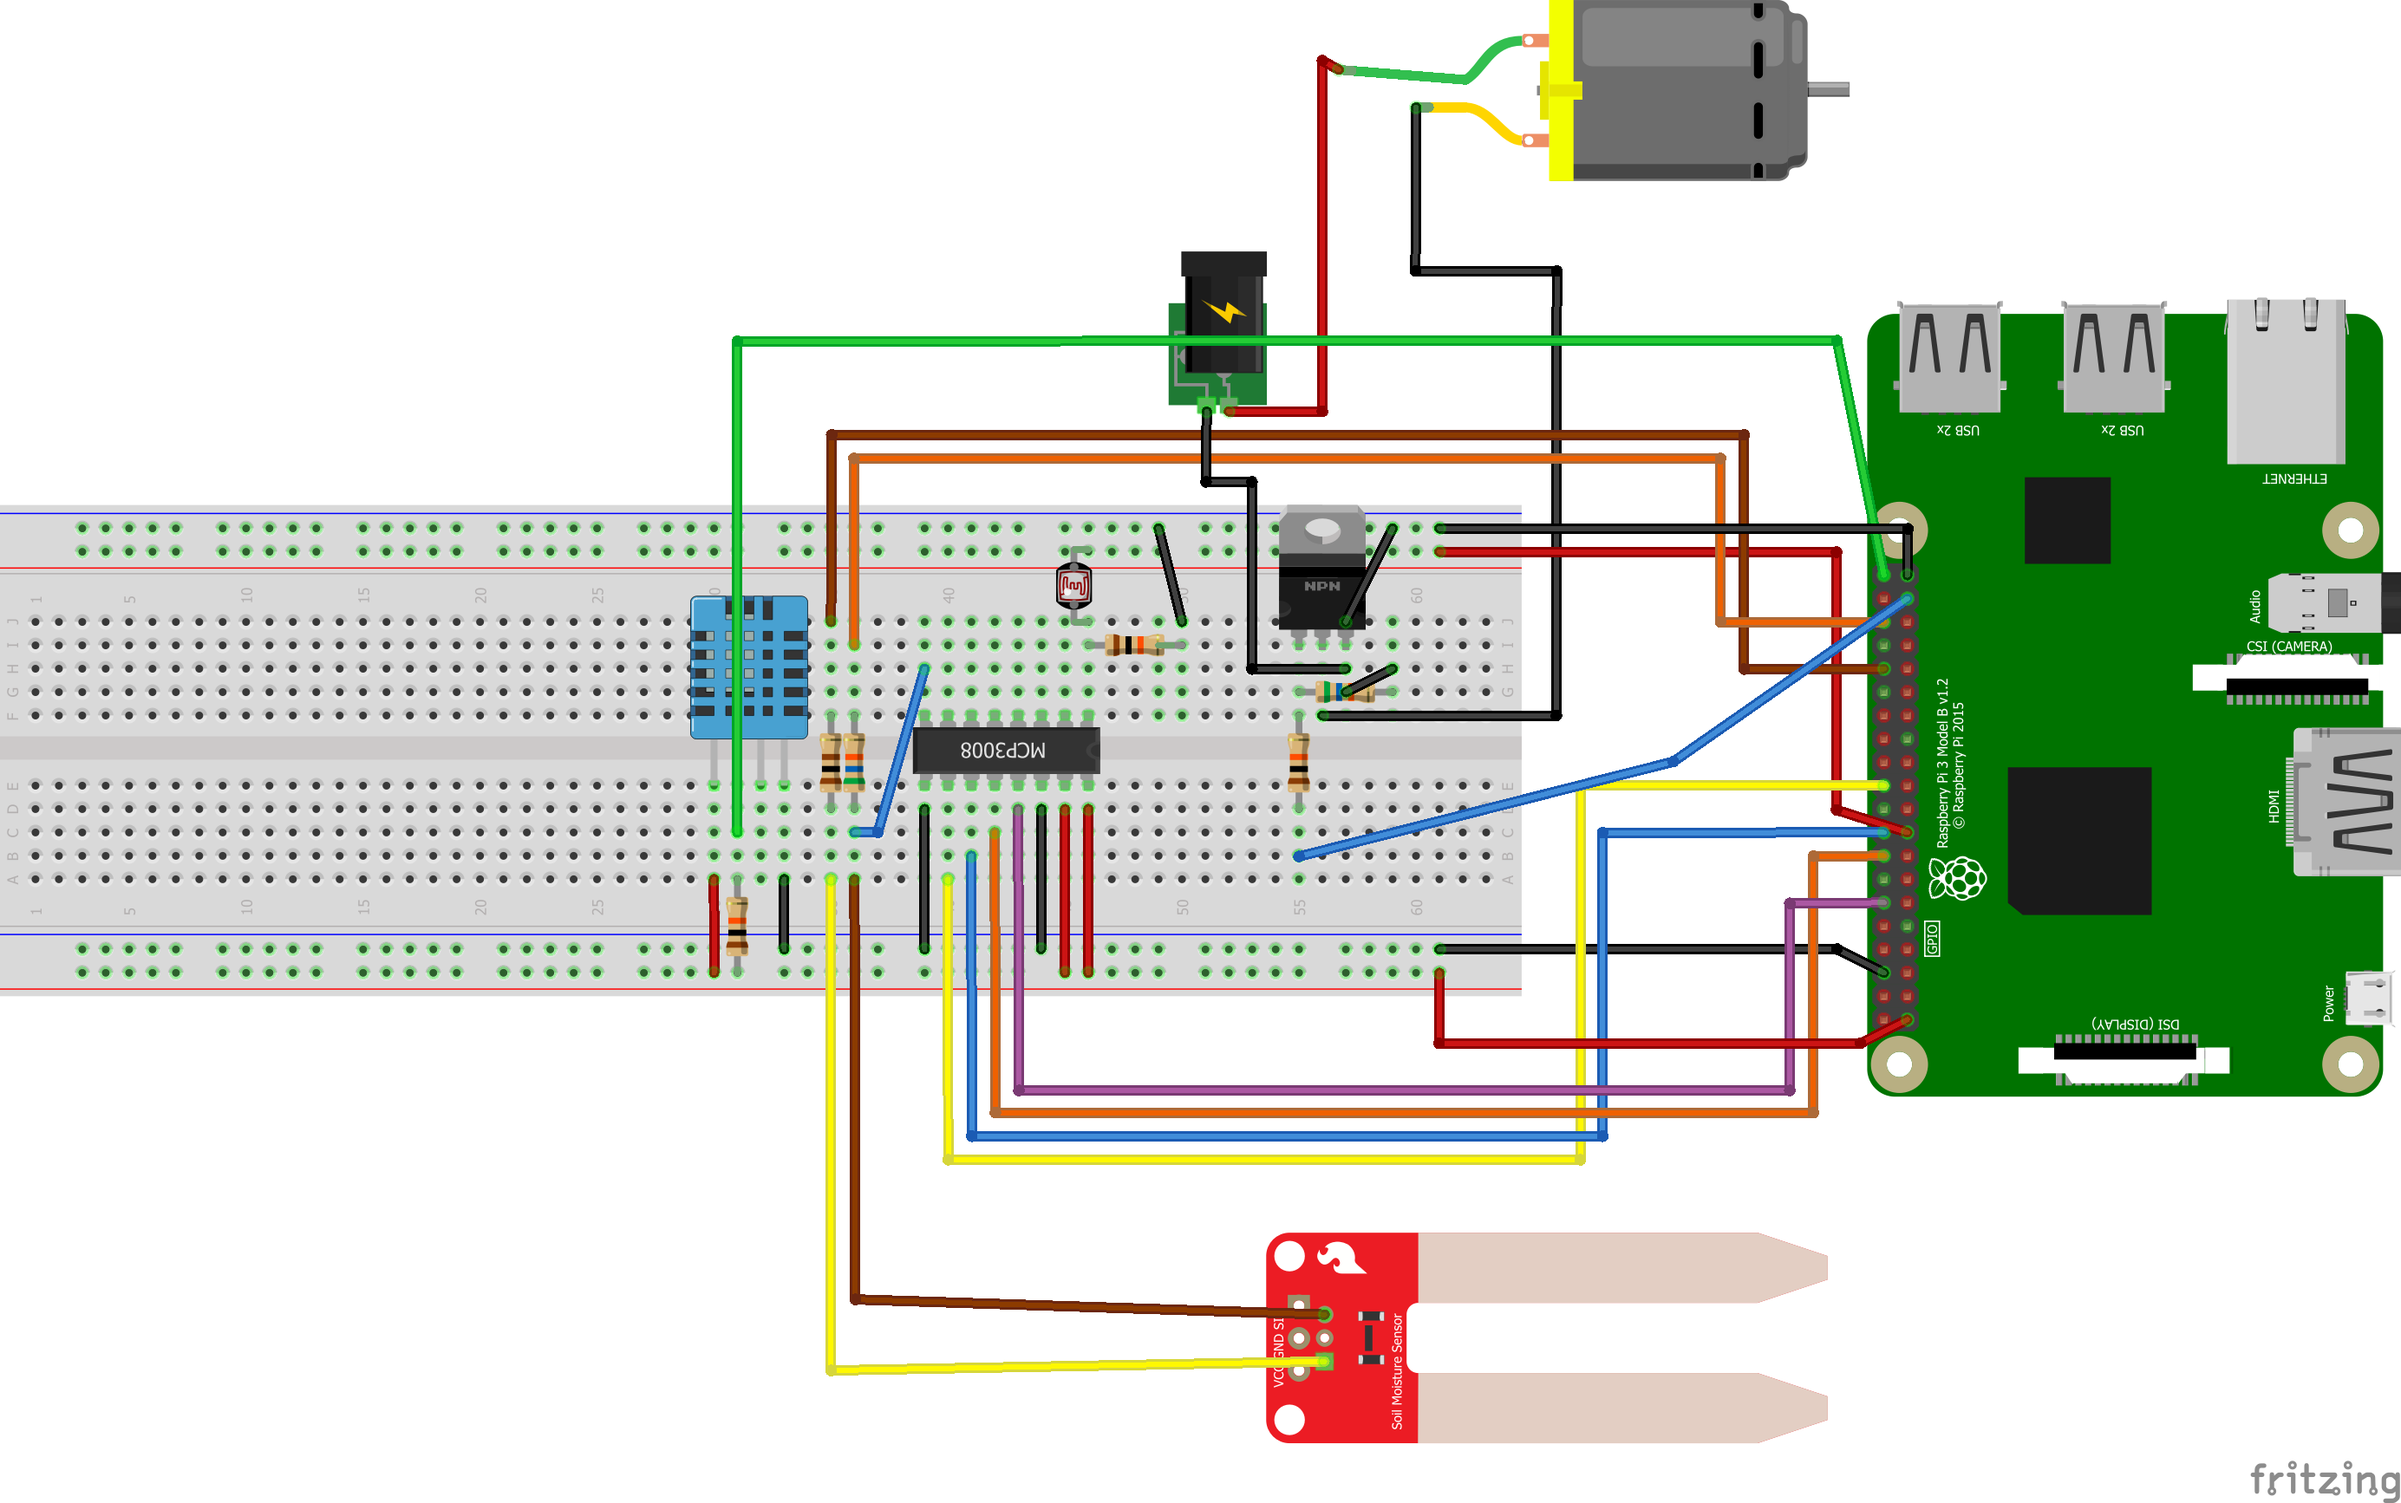
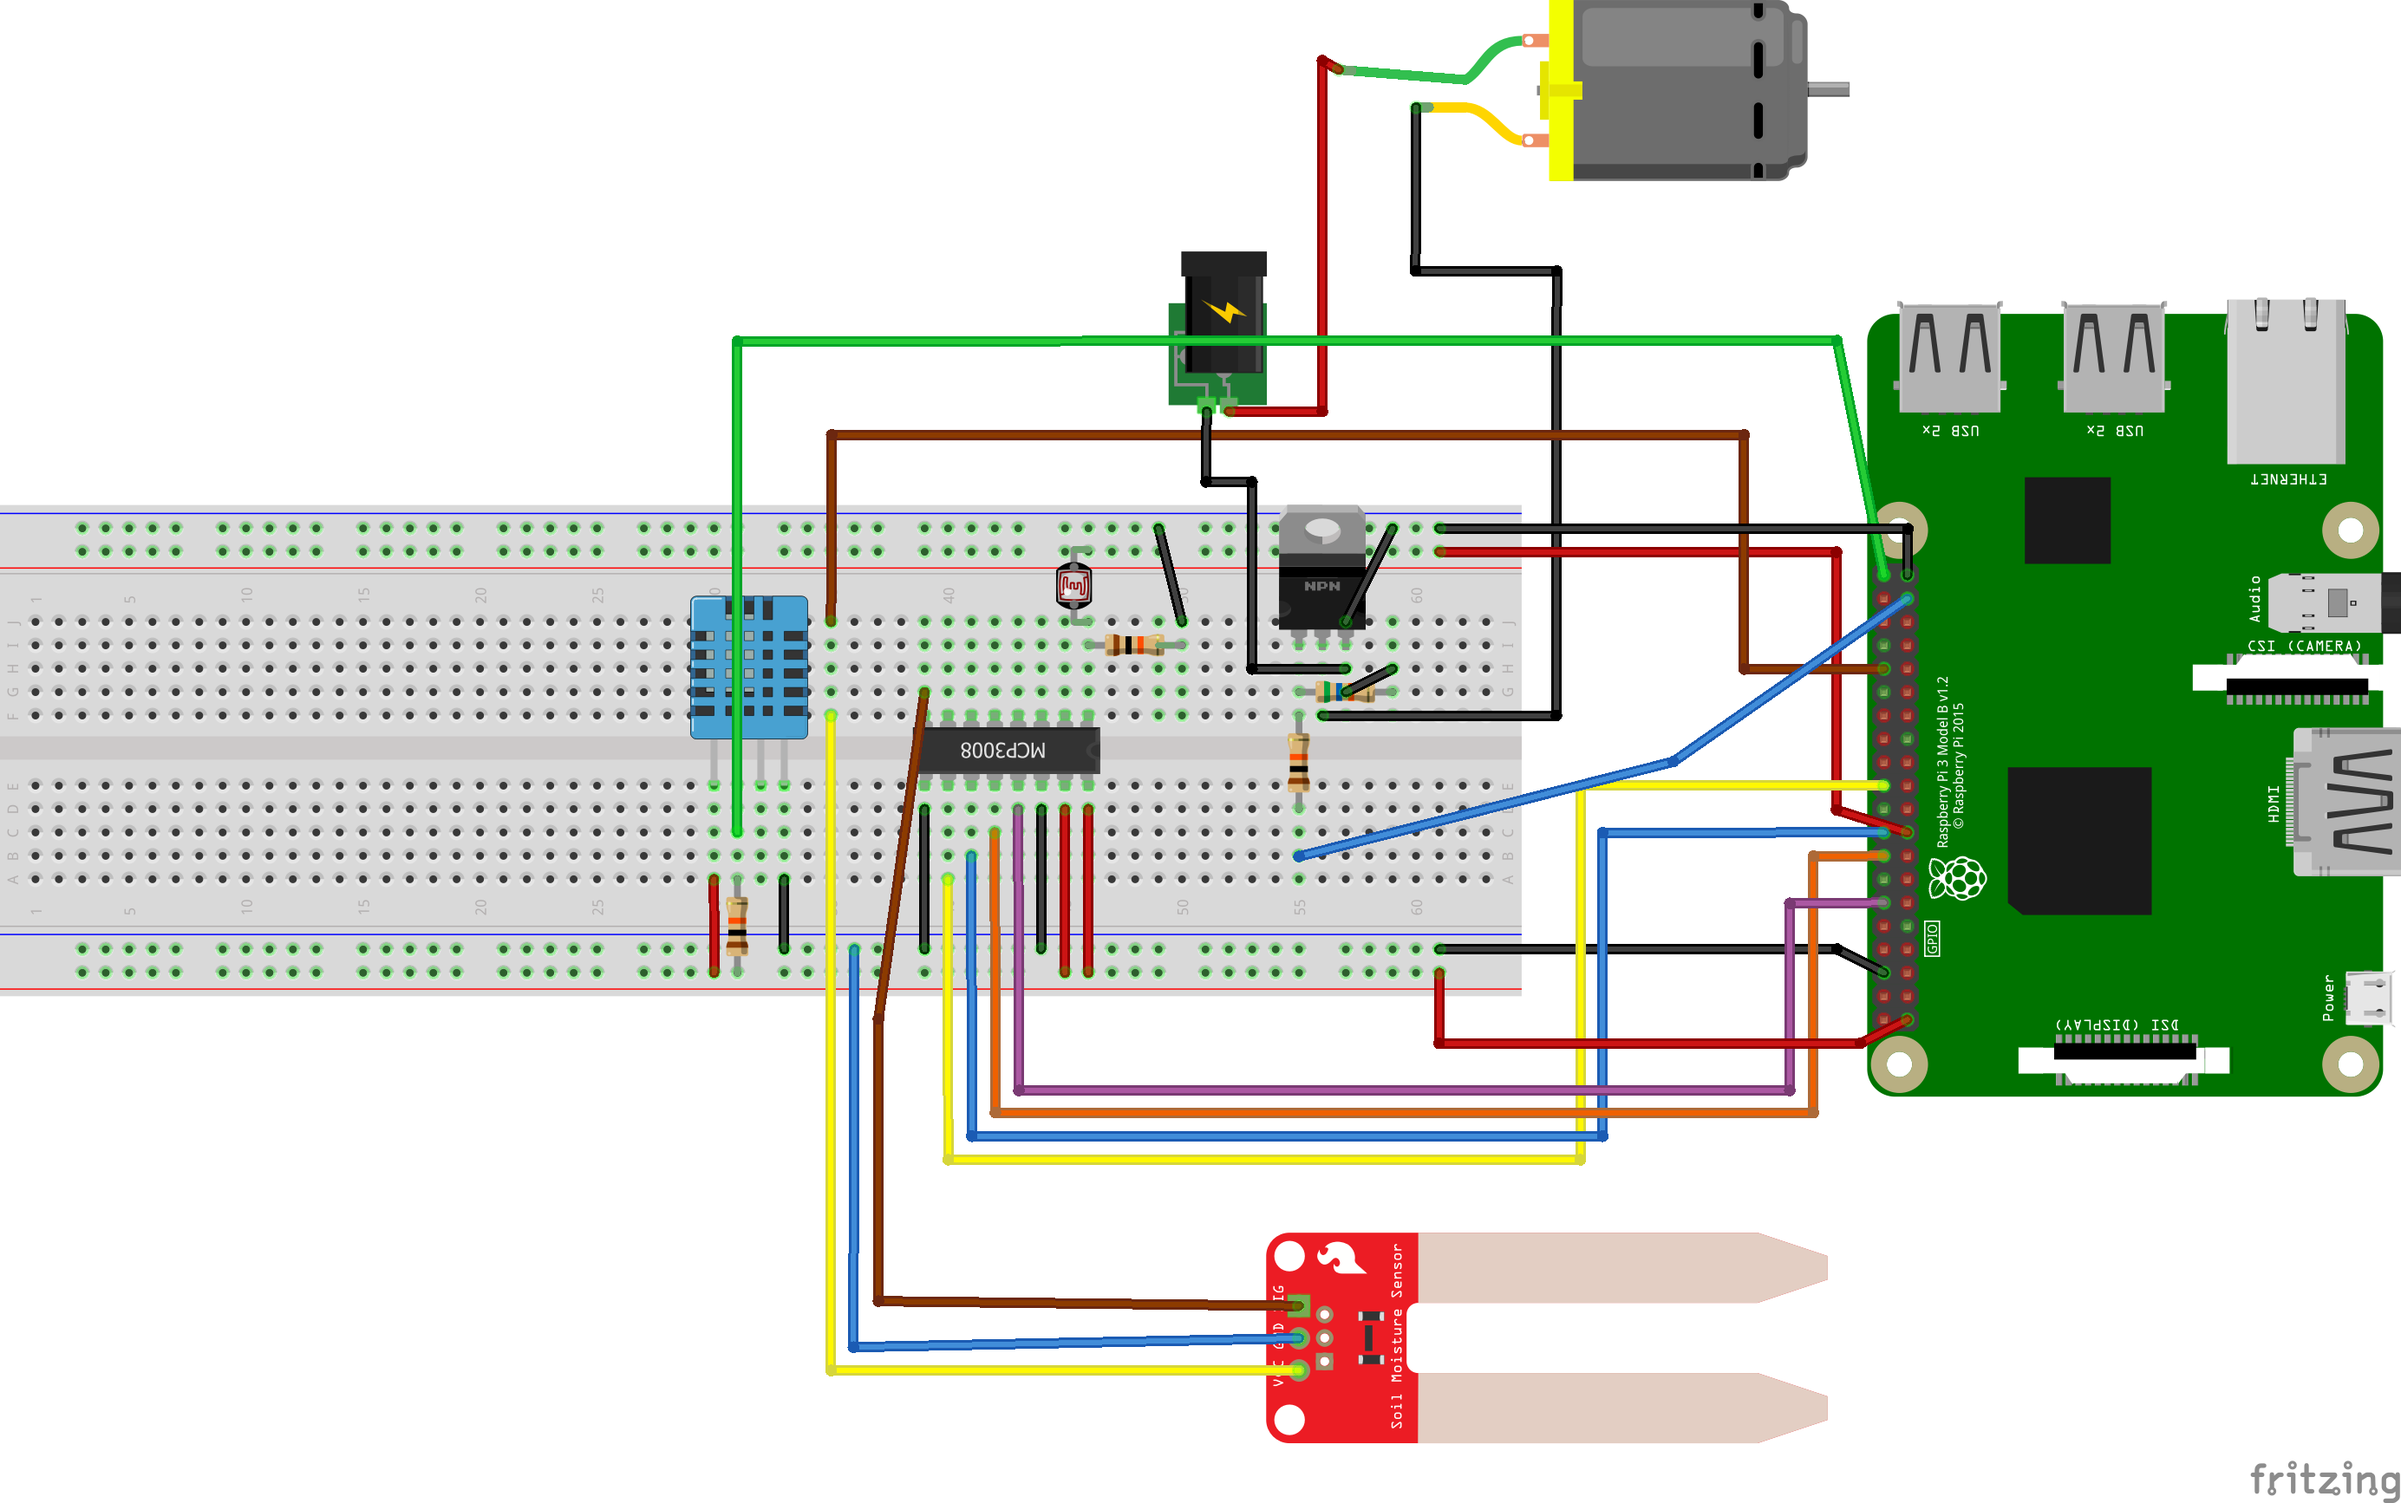
Switching from PlantFriends soil sensor to SparkFun
Changes code to use the SparkFun soil moisture sensor instead of the
PlantFriends soil moisture sensor. The SparkFun cannot reverse its polarity
like the PlantFriends, so it is constantly connected to ground and only needs
one GPIO pin to flip up and down for readings.

Updates the code and the Fritzing diagram.

diff --git a/greenpithumb/soil_moisture_sensor.py b/greenpithumb/soil_moisture_sensor.py
@@ -6,7 +6,7 @@ logger = logging.getLogger(__name__)
 class SoilMoistureSensor(object):
     """Wrapper for a moisture sensor."""
 
-    def __init__(self, adc, pi_io, channel, gpio_pin_1, gpio_pin_2, clock):
+    def __init__(self, adc, pi_io, channel, gpio_pin):
         """Creates a new SoilMoistureSensor instance.
 
         Args:
@@ -15,43 +15,24 @@ class SoilMoistureSensor(object):
             pi_io: Raspberry Pi I/O interface.
             channel: ADC channel to which the moisture sensor is connected. Must
                 be an int between 0 and 7.
-            gpio_pin_1: One of the Raspberry Pi GPIO pins that the moisture
-                sensor is connected to. Must be an int between 2 and 27.
-            gpio_pin_2: The other GPIO pin that the moisture sensor is connected
-                to. Must be an int between 2 and 27.
-            clock: Clock interface.
+            gpio_pin: The Raspberry Pi GPIO pins that the moisture sensor is
+                connected to. Must be an int between 2 and 27.
         """
         self._adc = adc
         self._pi_io = pi_io
         self._channel = channel
-        self._gpio_pin_1 = gpio_pin_1
-        self._gpio_pin_2 = gpio_pin_2
-        self._clock = clock
+        self._gpio_pin = gpio_pin
 
     def soil_moisture(self):
         """Returns the soil moisture level.
 
-        Takes two readings from the moisture sensor with the GPIO pins powering
-        it alternately turned on and off (one in each state). Returns the
-        average of the two readings.
+        Takes a reading from the moisture sensor by powering the GPIO pin the
+        sensor is connected to.
         """
         try:
-            self._pi_io.turn_pin_on(self._gpio_pin_1)
-            self._pi_io.turn_pin_off(self._gpio_pin_2)
-            moisture_one = self._adc.read_adc(self._channel)
-            logger.info('soil moisture reading (1 of 2) = %d', moisture_one)
-
-            # We need to turn off both pins before the sleep so that the charge
-            # has time to dissipate before the next read.
-            self._pi_io.turn_pin_off(self._gpio_pin_1)
-            self._clock.wait(0.1)
-
-            self._pi_io.turn_pin_on(self._gpio_pin_2)
-            self._pi_io.turn_pin_off(self._gpio_pin_1)
-            moisture_two = 1023 - self._adc.read_adc(self._channel)
-            logger.info('soil moisture reading (2 of 2) = %d', moisture_two)
-
-            return (moisture_one + moisture_two) / 2
+            self._pi_io.turn_pin_on(self._gpio_pin)
+            moisture = self._adc.read_adc(self._channel)
+            logger.info('soil moisture reading = %d', moisture)
+            return moisture
         finally:
-            self._pi_io.turn_pin_off(self._gpio_pin_1)
-            self._pi_io.turn_pin_off(self._gpio_pin_2)
+            self._pi_io.turn_pin_off(self._gpio_pin)

diff --git a/tests/test_wiring_config_parser.py b/tests/test_wiring_config_parser.py
@@ -14,8 +14,7 @@ class WiringConfigParserTest(unittest.TestCase):
 [gpio_pins]
 pump: 26
 dht11: 21
-soil_moisture_1: 16
-soil_moisture_2: 12
+soil_moisture: 16
 mcp3008_clk: 18
 mcp3008_dout: 23
 mcp3008_din: 24
@@ -27,8 +26,7 @@ light_sensor: 6
 """)
         self.assertEquals(wiring_config.gpio_pins.pump, 26)
         self.assertEquals(wiring_config.gpio_pins.dht11, 21)
-        self.assertEquals(wiring_config.gpio_pins.soil_moisture_1, 16)
-        self.assertEquals(wiring_config.gpio_pins.soil_moisture_2, 12)
+        self.assertEquals(wiring_config.gpio_pins.soil_moisture, 16)
         self.assertEquals(wiring_config.gpio_pins.mcp3008_clk, 18)
         self.assertEquals(wiring_config.gpio_pins.mcp3008_dout, 23)
         self.assertEquals(wiring_config.gpio_pins.mcp3008_din, 24)
@@ -42,8 +40,7 @@ light_sensor: 6
 [gpio_pins]
 pump: 26
 dht11: 21
-soil_moisture_1: 16
-soil_moisture_2: 12
+soil_moisture: 16
 mcp3008_clk: 18
 mcp3008_dout: 23
 mcp3008_din: 24
@@ -81,8 +78,7 @@ light_sensor: 6
 [gpio_pins]
 
 dht11: 21
-soil_moisture_1: 16
-soil_moisture_2: 12
+soil_moisture: 16
 mcp3008_clk: 18
 mcp3008_dout: 23
 mcp3008_din: 24
@@ -101,8 +97,7 @@ light_sensor: 6
             wiring_config_parser.parse("""
 [gpio_pins]
 dht11: 21
-soil_moisture_1: 16
-soil_moisture_2: 12
+soil_moisture: 16
 mcp3008_clk: 18
 mcp3008_dout: 23
 mcp3008_din: 24
@@ -123,8 +118,7 @@ light_sensor: 6
 [gpio_pins]
 pump: 26
 dht11: 21
-soil_moisture_1: 16
-soil_moisture_2: 12
+soil_moisture: 16
 mcp3008_clk: 18
 mcp3008_dout: 23
 mcp3008_din: 24
@@ -143,8 +137,7 @@ light_sensor: 6
 [gpio_pins]
 pump: 26
 dht11: 21
-soil_moisture_1: 16
-soil_moisture_2: 12
+soil_moisture: 16
 mcp3008_clk: 18
 mcp3008_dout: 23
 mcp3008_din: 24
@@ -163,8 +156,7 @@ soil_moisture_sensor: -1
 [gpio_pins]
 pump: 26
 dht11: 21
-soil_moisture_1: 16
-soil_moisture_2: 12
+soil_moisture: 16
 mcp3008_clk: 18
 mcp3008_dout: 23
 mcp3008_din: 24
@@ -183,8 +175,7 @@ soil_moisture_sensor: 8
 [gpio_pins]
 pump: 26
 dht11: 21
-soil_moisture_1: 16
-soil_moisture_2: 12
+soil_moisture: 16
 mcp3008_clk: 18
 mcp3008_dout: 23
 mcp3008_din: 24
@@ -203,8 +194,7 @@ soil_moisture_sensor: banana
 [gpio_pins]
 pump: 26
 dht11: 21
-soil_moisture_1: 16
-soil_moisture_2: 12
+soil_moisture: 16
 mcp3008_clk: 18
 mcp3008_dout: 23
 mcp3008_din: 24

diff --git a/tests/test_soil_moisture_sensor.py b/tests/test_soil_moisture_sensor.py
@@ -21,40 +21,27 @@ class MoistureSensorTest(unittest.TestCase):
         self.mock_pi_io = mock.Mock()
         self.mock_pi_io.turn_pin_on.side_effect = mock_turn_pin_on
         self.mock_pi_io.turn_pin_off.side_effect = mock_turn_pin_off
-        self.mock_clock = mock.Mock()
 
     def test_moisture_read_succeeds_when_adc_succeeds(self):
-        """Moisture level read should be the average of the two readings."""
-        self.mock_adc.read_adc.side_effect = [300, (1023 - 400)]
+        self.mock_adc.read_adc.return_value = 350
         channel = 1
-        gpio_pin_1 = 12
-        gpio_pin_2 = 16
+        gpio_pin = 12
         sensor = soil_moisture_sensor.SoilMoistureSensor(
-            self.mock_adc, self.mock_pi_io, channel, gpio_pin_1, gpio_pin_2,
-            self.mock_clock)
+            self.mock_adc, self.mock_pi_io, channel, gpio_pin)
 
         self.assertEqual(350, sensor.soil_moisture())
-        self.assertEqual([mock.call(12), mock.call(16)],
-                         self.mock_pi_io.turn_pin_on.call_args_list)
-        self.assertEqual([
-            mock.call(16), mock.call(12), mock.call(12), mock.call(12),
-            mock.call(16)
-        ], self.mock_pi_io.turn_pin_off.call_args_list)
+        self.mock_pi_io.turn_pin_on.assert_called_once_with(12)
+        self.mock_pi_io.turn_pin_off.assert_called_once_with(12)
         self.assertFalse(self.pin_state[12])
-        self.assertFalse(self.pin_state[16])
-        self.mock_clock.wait.assert_called_once_with(0.1)
 
     def test_moisture_sensor_pins_turned_off_if_adc_raises_exception(self):
         self.mock_adc.read_adc.side_effect = ValueError()
         channel = 1
-        gpio_pin_1 = 12
-        gpio_pin_2 = 16
+        gpio_pin = 12
         sensor = soil_moisture_sensor.SoilMoistureSensor(
-            self.mock_adc, self.mock_pi_io, channel, gpio_pin_1, gpio_pin_2,
-            self.mock_clock)
+            self.mock_adc, self.mock_pi_io, channel, gpio_pin)
 
         with self.assertRaises(ValueError):
             sensor.soil_moisture()
 
         self.assertFalse(self.pin_state[12])
-        self.assertFalse(self.pin_state[16])

diff --git a/greenpithumb/wiring_config_parser.py b/greenpithumb/wiring_config_parser.py
@@ -30,8 +30,8 @@ class DuplicateAdcChannelError(Error):
 
 # Represents GreenPiThumb's Rapsberry Pi GPIO pin configuration.
 _GpioPinConfig = collections.namedtuple('_GpioPinConfig', [
-    'pump', 'dht11', 'soil_moisture_1', 'soil_moisture_2', 'mcp3008_clk',
-    'mcp3008_dout', 'mcp3008_din', 'mcp3008_cs_shdn'
+    'pump', 'dht11', 'soil_moisture', 'mcp3008_clk', 'mcp3008_dout',
+    'mcp3008_din', 'mcp3008_cs_shdn'
 ])
 
 
@@ -173,8 +173,7 @@ def parse(config_data):
         A wiring configuration object with the following properties:
             * gpio_pins.pump
             * gpio_pins.dht11
-            * gpio_pins.soil_moisture_1
-            * gpio_pins.soil_moisture_2
+            * gpio_pins.soil_moisture
             * gpio_pins.mcp3008_clk
             * gpio_pins.mcp3008_dout
             * gpio_pins.mcp3008_din
@@ -188,10 +187,8 @@ def parse(config_data):
         gpio_pin_config = _GpioPinConfig(
             pump=_parse_gpio_pin(raw_parser.get('gpio_pins', 'pump')),
             dht11=_parse_gpio_pin(raw_parser.get('gpio_pins', 'dht11')),
-            soil_moisture_1=_parse_gpio_pin(
-                raw_parser.get('gpio_pins', 'soil_moisture_1')),
-            soil_moisture_2=_parse_gpio_pin(
-                raw_parser.get('gpio_pins', 'soil_moisture_2')),
+            soil_moisture=_parse_gpio_pin(
+                raw_parser.get('gpio_pins', 'soil_moisture')),
             mcp3008_clk=_parse_gpio_pin(
                 raw_parser.get('gpio_pins', 'mcp3008_clk')),
             mcp3008_din=_parse_gpio_pin(

diff --git a/greenpithumb/greenpithumb.py b/greenpithumb/greenpithumb.py
@@ -74,8 +74,7 @@ def make_sensor_pollers(poll_interval, wiring_config, moisture_threshold,
             soil_moisture_sensor.SoilMoistureSensor(
                 adc,
                 pi_io.IO(GPIO), wiring_config.adc_channels.soil_moisture_sensor,
-                wiring_config.gpio_pins.soil_moisture_1,
-                wiring_config.gpio_pins.soil_moisture_2, utc_clock),
+                wiring_config.gpio_pins.soil_moisture),
             pump_manager), poller_factory.create_light_poller(
                 light_sensor.LightSensor(
                     adc, wiring_config.adc_channels.light_sensor)),
